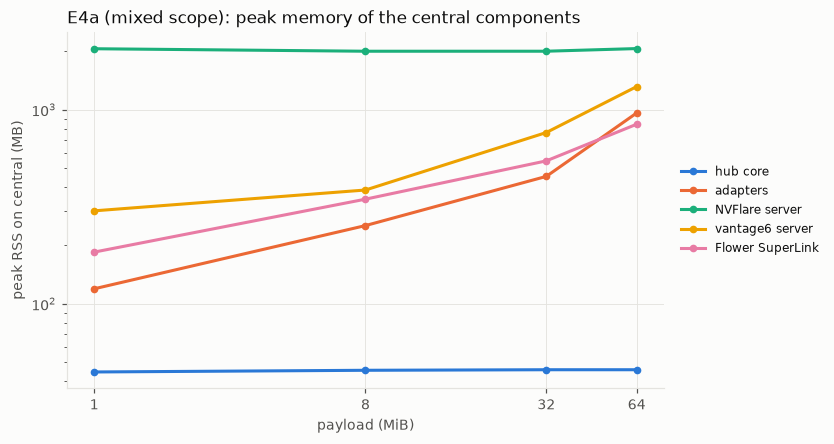
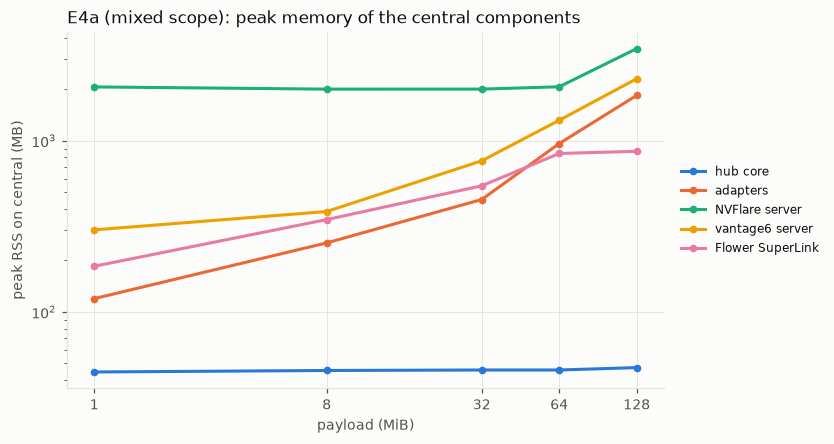
report: E4b section, cost model with byte volume, E4a markers

diff --git a/scripts/stage2/cost_model.py b/scripts/stage2/cost_model.py
@@ -8,8 +8,9 @@ with P the payload in MiB. vantage6 grows superlinearly beyond 64 MiB (its serve
 its predictions use the linear fit on 1-64 MiB (the learning models are <= 43 MiB); a quadratic fit
 a + b·P + c·P² over all sizes is reported for every framework. The fits then predict the fan-out of every learning run
 with real training (E3; E1 and E2 dir0.3 for cnn-small) as fit(P_model) + max over the framework's
-sites of train_time_s, and of the E4b runs (payload-45 under netem) as fit(P) + 4·P/rate (each VM link
-carries two sites: download 2P before training, upload 2P after it). Reported: coefficients, R², and
+sites of train_time_s, and of the E4b runs (payload-45 under netem) as fit(P) + V·P/rate, V = the payloads
+a framework moves per VM link and round (4 for NVFlare and Flower: two sites, download before training and
+upload after it; 17.8 for vantage6, which sends each input four times, double base64). Reported: coefficients, R², and
 the prediction error per run (median over rounds >= 2).
 """
 
@@ -30,6 +31,7 @@ SIZES = [1, 8, 32, 64, 128, 256, 512]
 PREFIX = {"nvflare": "nvf-", "vantage6": "v6-", "flower": "flw-"}
 MODEL_MB = {"cnn-small": 52203 * 4 / 2**20, "cnn-medium": 1676779 * 4 / 2**20, "resnet18-gn": 11173323 * 4 / 2**20}
 RATE_MBPS = {"wan1g": 1000, "wan100": 100, "wan20": 20}  # Mbit/s
+VOLUME = {"nvflare": 4.0, "flower": 4.0, "vantage6": 17.8}  # payloads per VM link and round (see the E4b note)
 LEARNING = ["s2-e1-dir0.3-fedavg", "s2-e2-dir0.3-fedavgm", "s2-e3-cnn-medium-fedavg", "s2-e3-cnn-medium-fedavgm",
             "s2-e3-resnet18-gn-fedavg", "s2-e3-resnet18-gn-fedavgm"]
 
@@ -114,9 +116,12 @@ def main(argv: list[str] | None = None) -> int:
             pred = predict(fw, p) + tr
             lines.append(f"| {name} | {fw} | {p:.1f} | {tr:.1f} | {pred:.1f} | {meas:.1f} | "
                          f"{(pred - meas) / meas * 100:+.0f} % |")
-    lines += ["", "E4b (payload-45, mixed scope, netem on both ends): fan-out ≈ fit(45) + 4·P/rate.", "",
-              "| profile | framework | lower bound 4·P/rate (s) | predicted (s) | measured (s) | error |",
-              "|---|---|---|---|---|---|"]
+    lines += ["", "E4b (payload-45, mixed scope, netem on both ends): fan-out ≈ fit(45) + V·P/rate, with V the bytes a "
+              "framework moves per VM link and round in units of P: 4 for NVFlare and Flower (2 sites, each P down and P "
+              "up), 17.8 for vantage6 (2 sites x (4 input copies down + 1 result up) x 1.78 for double base64; "
+              "vantage6 section §4). Efficiency = plan lower bound 4·P/rate ÷ measured.", "",
+              "| profile | framework | lower bound 4·P/rate (s) | V·P/rate (s) | predicted (s) | measured (s) | error | "
+              "efficiency |", "|---|---|---|---|---|---|---|---|"]
     for prof in ["none", "wan1g", "wan100", "wan20"]:
         name = f"s2-e4b-{prof}"
         if not (RUNS / f"{name}-latest").exists():
@@ -129,8 +134,10 @@ def main(argv: list[str] | None = None) -> int:
             if meas is None:
                 continue
             lb = 4 * p * 8 * 2**20 / (RATE_MBPS[prof] * 1e6) if prof in RATE_MBPS else 0.0
-            pred = predict(fw, p) + lb
-            lines.append(f"| {prof} | {fw} | {lb:.1f} | {pred:.1f} | {meas:.1f} | {(pred - meas) / meas * 100:+.0f} % |")
+            vol = VOLUME[fw] * p * 8 * 2**20 / (RATE_MBPS[prof] * 1e6) if prof in RATE_MBPS else 0.0
+            pred = predict(fw, p) + vol
+            lines.append(f"| {prof} | {fw} | {lb:.1f} | {vol:.1f} | {pred:.1f} | {meas:.1f} | "
+                         f"{(pred - meas) / meas * 100:+.0f} % | {lb / meas:.2f} |")
     Path(args.out).write_text("\n".join(lines) + "\n")
     print("\n".join(lines))
     return 0

diff --git a/scripts/stage2/plots.py b/scripts/stage2/plots.py
@@ -265,7 +265,10 @@ def e4a_limits(scope: str) -> list[tuple[int, str]]:
     p = RUNS / f"e4a-{scope}.json"
     if not p.exists():
         return []
-    return [(r["size_mb"], r["result"]) for r in json.loads(p.read_text())["runs"] if r["result"] not in ("ok",)]
+    final: dict[int, str] = {}
+    for r in json.loads(p.read_text())["runs"]:  # the last attempt per size counts (the E4a extension re-ran sizes)
+        final[r["size_mb"]] = r["result"]
+    return sorted((size, res) for size, res in final.items() if not res.startswith("ok"))
 
 
 def fig_e4a_time(out: Path) -> None:
@@ -283,15 +286,15 @@ def fig_e4a_time(out: Path) -> None:
         ax.annotate(scope, good[-1], xytext=(-5, 8), textcoords="offset points", ha="right", va="bottom",
                     fontsize=8, color=TEXT)
         for size, result in e4a_limits(scope):
-            ax.plot([size], [good[-1][1]], marker="v" if "disk" in result else "x", color=FW_COLOR[scope],
-                    ms=8, mfc="none", mew=1.5)
+            ax.plot([size], [good[-1][1]], marker="v" if "disk" in result else "X", color=FW_COLOR[scope],
+                    ms=8 if "disk" in result else 10, mfc="none" if "disk" in result else FW_COLOR[scope], mew=1.5)
     ax.set_xscale("log", base=2)
     ax.set_yscale("log")
-    ax.set_xticks([1, 8, 32, 64, 128, 256, 512], ["1", "8", "32", "64", "128", "256", "512"])
+    ax.set_xticks([1, 8, 32, 64, 128, 256, 512, 1024], ["1", "8", "32", "64", "128", "256", "512", "1024"])
     ax.set_xlabel("payload per site and direction (MiB)")
     ax.set_ylabel("round time, median of rounds 2-3 (s)")
-    ax.set_title("E4a: round time vs payload (open triangle = next size stopped by the testbed disk rule)",
-                 loc="left", fontsize=9)
+    ax.set_title("E4a: round time vs payload (open triangle: next size stopped by the testbed disk rule; "
+                 "X: framework limit)", loc="left", fontsize=9)
     save(fig, "e4a_round_time_vs_payload", out)
 
 

diff --git a/docs/report/stage2/e4_bytes.md b/docs/report/stage2/e4_bytes.md
@@ -1,0 +1,50 @@
+# E4 — bytes on wire per framework VM (generated by scripts/stage2/e4_bytes.py)
+
+Interface byte deltas (rx = from central, tx = to central) over the run window; payload = sites on that VM × 2 directions × rounds × size. Ratio = (rx + tx) / payload.
+
+| run | framework | sites | rounds | payload MiB | rx MiB | tx MiB | ratio | background (idle VM) MiB |
+|---|---|---|---|---|---|---|---|---|
+| s2-e4a-flower-128mb | flower | 2 | 3 | 1536 | 769.5 | 769.8 | 1.002 | 0.4 |
+| s2-e4a-flower-1mb | flower | 2 | 3 | 12 | 6.1 | 5.1 | 0.938 | 2.7 |
+| s2-e4a-flower-256mb | flower | 2 | 3 | 3072 | 1538.8 | 1539.5 | 1.002 | 0.7 |
+| s2-e4a-flower-32mb | flower | 2 | 3 | 384 | 192.5 | 192.6 | 1.003 | 0.2 |
+| s2-e4a-flower-512mb | flower | 2 | 3 | 6144 | 3077.5 | 3081.7 | 1.002 | 10.7 |
+| s2-e4a-flower-64mb | flower | 2 | 3 | 768 | 384.8 | 385.0 | 1.002 | 0.3 |
+| s2-e4a-flower-8mb | flower | 2 | 3 | 96 | 48.2 | 48.2 | 1.005 | 2.7 |
+| s2-e4a-mixed-128mb | nvflare | 2 | 3 | 1536 | 777.4 | 783.3 | 1.016 | - |
+| s2-e4a-mixed-128mb | flower | 2 | 3 | 1536 | 770.1 | 779.3 | 1.009 | - |
+| s2-e4a-mixed-1mb | nvflare | 2 | 3 | 12 | 6.2 | 8.8 | 1.251 | - |
+| s2-e4a-mixed-1mb | vantage6 | 2 | 3 | 12 | 53.9 | 11.1 | 5.414 | - |
+| s2-e4a-mixed-1mb | flower | 2 | 3 | 12 | 6.1 | 6.2 | 1.023 | - |
+| s2-e4a-mixed-32mb | nvflare | 2 | 3 | 384 | 193.9 | 199.0 | 1.023 | - |
+| s2-e4a-mixed-32mb | vantage6 | 2 | 3 | 384 | 1743.1 | 376.3 | 5.519 | - |
+| s2-e4a-mixed-32mb | flower | 2 | 3 | 384 | 192.6 | 192.7 | 1.003 | - |
+| s2-e4a-mixed-64mb | nvflare | 2 | 3 | 768 | 387.7 | 390.2 | 1.013 | - |
+| s2-e4a-mixed-64mb | vantage6 | 2 | 3 | 768 | 3258.5 | 731.1 | 5.195 | - |
+| s2-e4a-mixed-64mb | flower | 2 | 3 | 768 | 385.0 | 385.2 | 1.003 | - |
+| s2-e4a-mixed-8mb | nvflare | 2 | 3 | 96 | 48.5 | 48.5 | 1.011 | - |
+| s2-e4a-mixed-8mb | vantage6 | 2 | 3 | 96 | 435.1 | 91.7 | 5.488 | - |
+| s2-e4a-mixed-8mb | flower | 2 | 3 | 96 | 48.2 | 48.3 | 1.005 | - |
+| s2-e4a-nvflare-128mb | nvflare | 2 | 3 | 1536 | 772.2 | 772.1 | 1.005 | 7.5 |
+| s2-e4a-nvflare-1mb | nvflare | 2 | 3 | 12 | 6.2 | 6.6 | 1.064 | 4.9 |
+| s2-e4a-nvflare-256mb | nvflare | 2 | 3 | 3072 | 1544.5 | 1549.0 | 1.007 | 7.5 |
+| s2-e4a-nvflare-32mb | nvflare | 2 | 3 | 384 | 193.1 | 193.1 | 1.006 | 0.0 |
+| s2-e4a-nvflare-512mb | nvflare | 2 | 3 | 6144 | 3088.7 | 3100.0 | 1.007 | 11.7 |
+| s2-e4a-nvflare-64mb | nvflare | 2 | 3 | 768 | 386.2 | 388.6 | 1.009 | 4.9 |
+| s2-e4a-nvflare-8mb | nvflare | 2 | 3 | 96 | 48.4 | 32.3 | 0.840 | 0.0 |
+| s2-e4a-vantage6-128mb | vantage6 | 2 | 3 | 1536 | 12350.7 | 1588.9 | 9.075 | 25.6 |
+| s2-e4a-vantage6-1mb | vantage6 | 2 | 3 | 12 | 50.4 | 9.3 | 4.971 | 0.2 |
+| s2-e4a-vantage6-32mb | vantage6 | 2 | 3 | 384 | 1743.9 | 378.3 | 5.527 | 1.5 |
+| s2-e4a-vantage6-64mb | vantage6 | 2 | 3 | 768 | 3378.0 | 748.1 | 5.373 | 5.6 |
+| s2-e4a-vantage6-8mb | vantage6 | 2 | 3 | 96 | 435.2 | 91.8 | 5.490 | 5.4 |
+| s2-e4b-none | nvflare | 2 | 3 | 540 | 272.7 | 272.6 | 1.010 | - |
+| s2-e4b-none | flower | 2 | 3 | 540 | 270.8 | 270.9 | 1.003 | - |
+| s2-e4b-wan100 | nvflare | 2 | 3 | 540 | 273.9 | 273.7 | 1.014 | - |
+| s2-e4b-wan100 | flower | 2 | 3 | 540 | 271.6 | 271.7 | 1.006 | - |
+| s2-e4b-wan1g | nvflare | 2 | 3 | 540 | 273.3 | 273.0 | 1.012 | - |
+| s2-e4b-wan1g | flower | 2 | 3 | 540 | 271.2 | 271.2 | 1.004 | - |
+| s2-e4b-wan20 | nvflare | 2 | 3 | 540 | 301.7 | 304.0 | 1.122 | - |
+| s2-e4b-wan20 | flower | 2 | 3 | 540 | 272.5 | 278.7 | 1.021 | - |
+| s2-e7-flower-hub-payload | flower | 2 | 5 | 900 | 451.0 | 451.2 | 1.002 | 0.4 |
+| s2-e7-flower-native-payload | flower | 2 | 5 | 900 | 451.2 | 451.2 | 1.003 | 0.5 |
+| s2-e7-nvflare-hub-payload | nvflare | 2 | 5 | 900 | 452.7 | 431.5 | 0.982 | 0.0 |

diff --git a/docs/report/stage2/cost_model.md b/docs/report/stage2/cost_model.md
@@ -1,0 +1,50 @@
+# Round-time cost model (generated by scripts/stage2/cost_model.py)
+
+Fit on the E4a single-framework sweeps (echo training): fan-out time per round = a + b·P (P in MiB), median of rounds 2-3.
+
+| framework | sizes (MiB) | a (s) | b (s/MiB) | R² | quadratic c (s/MiB²) | R² (quadratic) |
+|---|---|---|---|---|---|---|
+| nvflare | 1,8,32,64,128,256,512 | 2.23 | 0.0212 | 0.972 | 1.07e-05 | 0.963 |
+| vantage6 | 1,8,32,64,128 | 3.65 | 1.6795 | 0.581 | 1.90e-02 | 0.981 |
+| vantage6 (1-64 MiB, used below) | 1,8,32,64 | 4.13 | 1.4939 | 0.959 | | |
+| flower | 1,8,32,64,128,256,512 | 5.48 | 0.0612 | 0.956 | 5.26e-05 | 0.997 |
+
+Prediction for runs with real training: fan-out ≈ a + b·P_model + max_k train_k (linear fits; vantage6 on 1-64 MiB). Median over rounds >= 2.
+
+| run | framework | P (MiB) | max train (s) | predicted (s) | measured (s) | error |
+|---|---|---|---|---|---|---|
+| s2-e1-dir0.3-fedavg | nvflare | 0.2 | 0.7 | 2.9 | 2.8 | +5 % |
+| s2-e1-dir0.3-fedavg | vantage6 | 0.2 | 1.9 | 6.3 | 9.1 | -31 % |
+| s2-e1-dir0.3-fedavg | flower | 0.2 | 1.6 | 7.1 | 7.9 | -10 % |
+| s2-e2-dir0.3-fedavgm | nvflare | 0.2 | 0.7 | 2.9 | 2.8 | +3 % |
+| s2-e2-dir0.3-fedavgm | vantage6 | 0.2 | 1.8 | 6.3 | 10.1 | -38 % |
+| s2-e2-dir0.3-fedavgm | flower | 0.2 | 1.6 | 7.1 | 7.9 | -10 % |
+| s2-e3-cnn-medium-fedavg | nvflare | 6.4 | 12.2 | 14.5 | 14.5 | -0 % |
+| s2-e3-cnn-medium-fedavg | vantage6 | 6.4 | 13.9 | 27.6 | 28.7 | -4 % |
+| s2-e3-cnn-medium-fedavg | flower | 6.4 | 14.4 | 20.3 | 21.1 | -4 % |
+| s2-e3-cnn-medium-fedavgm | nvflare | 6.4 | 11.7 | 14.0 | 13.5 | +4 % |
+| s2-e3-cnn-medium-fedavgm | vantage6 | 6.4 | 13.3 | 27.0 | 27.9 | -3 % |
+| s2-e3-cnn-medium-fedavgm | flower | 6.4 | 14.2 | 20.1 | 20.3 | -1 % |
+| s2-e3-resnet18-gn-fedavg | nvflare | 42.6 | 215.4 | 218.5 | 218.0 | +0 % |
+| s2-e3-resnet18-gn-fedavg | vantage6 | 42.6 | 225.9 | 293.7 | 267.6 | +10 % |
+| s2-e3-resnet18-gn-fedavg | flower | 42.6 | 224.1 | 232.2 | 235.5 | -1 % |
+| s2-e3-resnet18-gn-fedavgm | nvflare | 42.6 | 210.8 | 213.9 | 213.7 | +0 % |
+| s2-e3-resnet18-gn-fedavgm | vantage6 | 42.6 | 226.5 | 294.3 | 267.7 | +10 % |
+| s2-e3-resnet18-gn-fedavgm | flower | 42.6 | 223.8 | 231.9 | 234.8 | -1 % |
+
+E4b (payload-45, mixed scope, netem on both ends): fan-out ≈ fit(45) + V·P/rate, with V the bytes a framework moves per VM link and round in units of P: 4 for NVFlare and Flower (2 sites, each P down and P up), 17.8 for vantage6 (2 sites x (4 input copies down + 1 result up) x 1.78 for double base64; vantage6 section §4). Efficiency = plan lower bound 4·P/rate ÷ measured.
+
+| profile | framework | lower bound 4·P/rate (s) | V·P/rate (s) | predicted (s) | measured (s) | error | efficiency |
+|---|---|---|---|---|---|---|---|
+| none | nvflare | 0.0 | 0.0 | 3.2 | 3.3 | -4 % | 0.00 |
+| none | vantage6 | 0.0 | 0.0 | 71.4 | 81.8 | -13 % | 0.00 |
+| none | flower | 0.0 | 0.0 | 8.2 | 7.5 | +10 % | 0.00 |
+| wan1g | nvflare | 1.5 | 1.5 | 4.7 | 4.3 | +9 % | 0.35 |
+| wan1g | vantage6 | 1.5 | 6.7 | 78.1 | 83.3 | -6 % | 0.02 |
+| wan1g | flower | 1.5 | 1.5 | 9.8 | 8.9 | +10 % | 0.17 |
+| wan100 | nvflare | 15.1 | 15.1 | 18.3 | 17.0 | +8 % | 0.89 |
+| wan100 | vantage6 | 15.1 | 67.2 | 138.5 | 129.5 | +7 % | 0.12 |
+| wan100 | flower | 15.1 | 15.1 | 23.3 | 22.7 | +3 % | 0.67 |
+| wan20 | nvflare | 75.5 | 75.5 | 78.7 | 80.3 | -2 % | 0.94 |
+| wan20 | vantage6 | 75.5 | 336.0 | 407.3 | 463.8 | -12 % | 0.16 |
+| wan20 | flower | 75.5 | 75.5 | 83.7 | 85.1 | -2 % | 0.89 |
